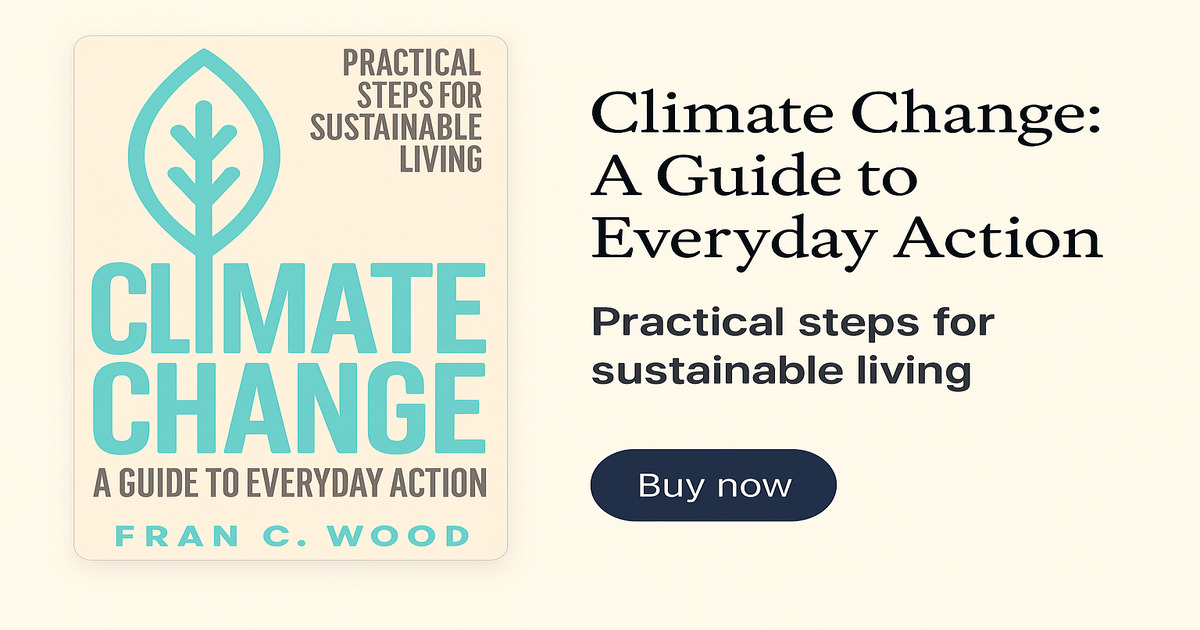
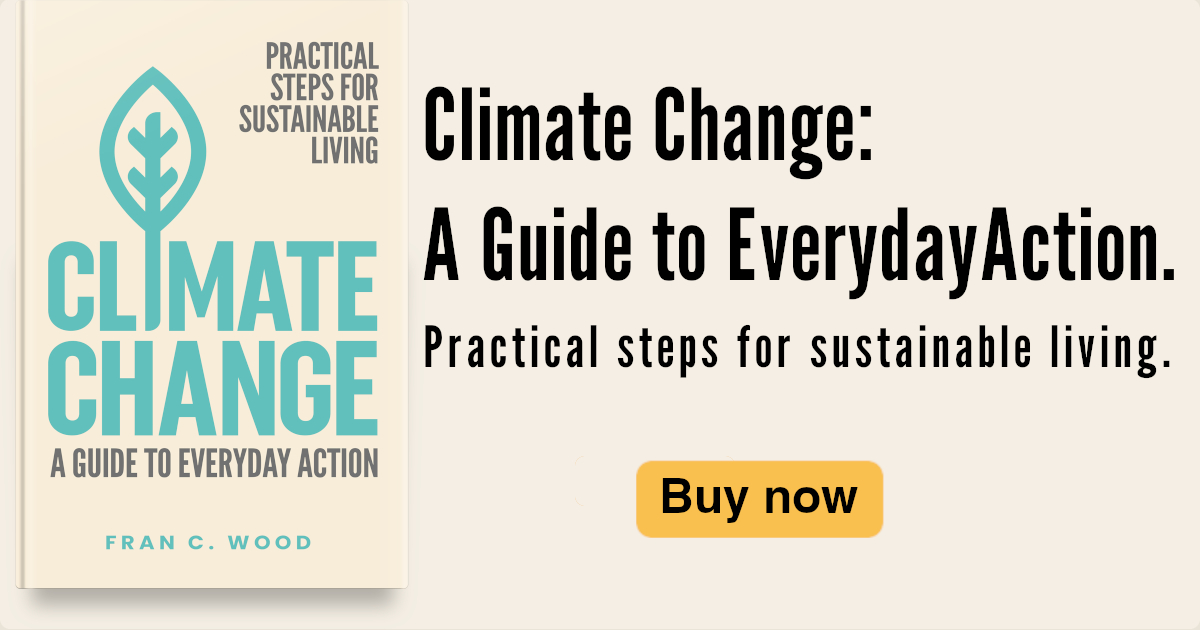
SEO improvements.

Changed region(s): [[0.0, 0.0, 0.9867, 0.9952], [0.4933, 0.6937, 0.74, 0.8746]]

diff --git a/src/data/site.ts b/src/data/site.ts
@@ -19,7 +19,7 @@ export const retailers = [
 ];
 
 export const heroHeadline =
-  "Facing Climate Change: A Practical & Mindful Guide to Sustainable Living, Inner Balance & Everyday Climate Action";
+  "Climate Change: A Guide to Everyday Action. A Practical & Mindful Steps to Sustainable Living, Inner Balance & Everyday Climate Action";
 
 export const heroSub =
   "This transformative guide helps you take meaningful climate action in your daily life — through conscious habits, emotional clarity, spiritual alignment, and sustainable routines designed to reconnect you with the Earth.";
